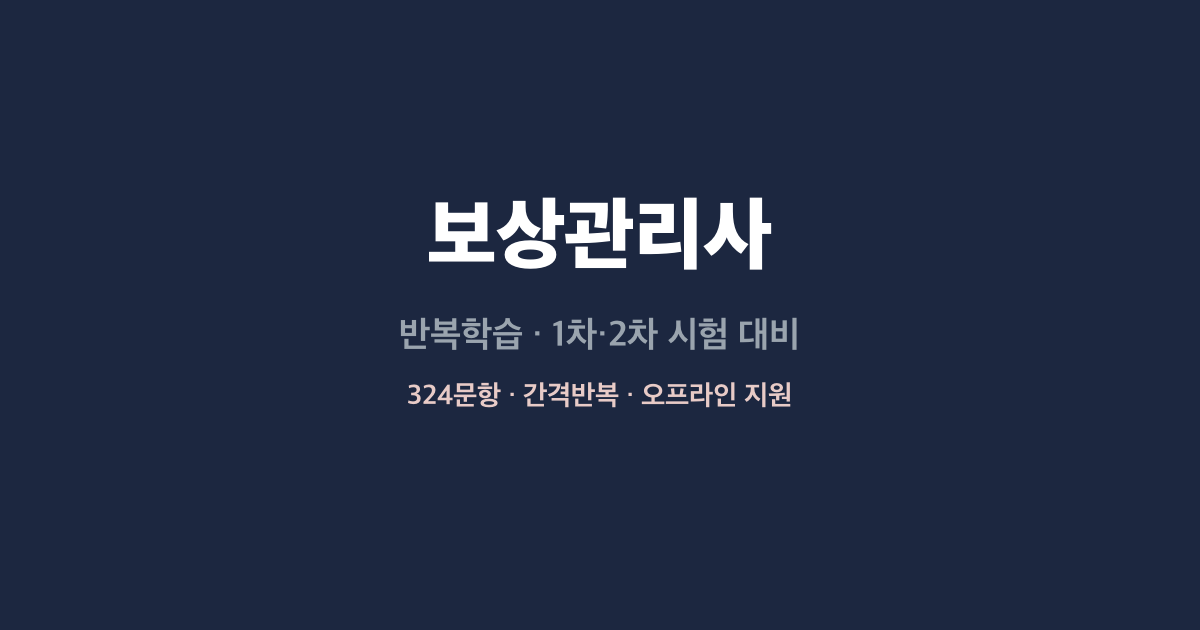
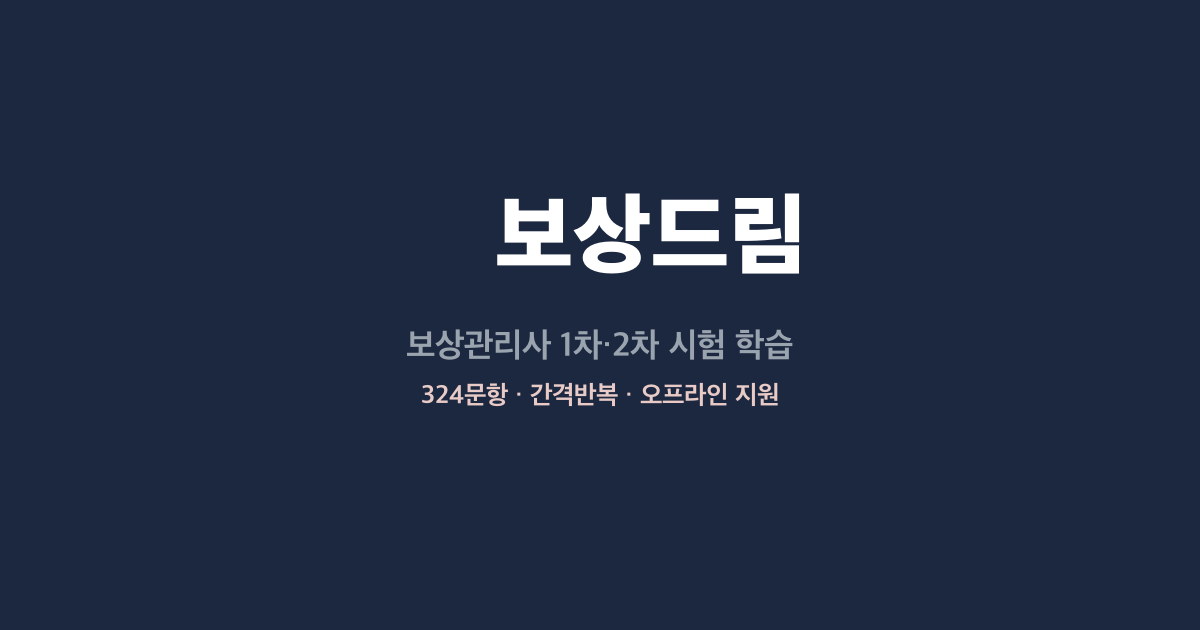
feat: 브랜드명 "보상드림"으로 전면 변경
- title, og:title, manifest, topbar, 피드백, 메뉴 버전 표시
- OG 이미지 새로 생성 (보상드림 텍스트)
- README, ARCHITECTURE 브랜드명 반영
- SW 캐시 v7→v8

Changed region(s): [[0.3392, 0.3016, 0.6783, 0.4524], [0.3083, 0.4825, 0.6783, 0.573], [0.3392, 0.6032, 0.6783, 0.6635]]

diff --git a/index.html b/index.html
@@ -7,10 +7,10 @@
 <meta name="apple-mobile-web-app-capable" content="yes">
 <meta name="mobile-web-app-capable" content="yes">
 <meta name="theme-color" content="#1C2740">
-<title>보상관리사 반복학습</title>
+<title>보상드림 — 보상관리사 학습</title>
 <!-- Open Graph (카카오톡 공유 미리보기) -->
-<meta property="og:title" content="보상관리사 반복학습">
-<meta property="og:description" content="1차·2차 시험 기출·예상문제 324문항 간격반복 학습">
+<meta property="og:title" content="보상드림 — 보상관리사 학습">
+<meta property="og:description" content="보상관리사 1차·2차 시험 324문항 간격반복 학습">
 <meta property="og:image" content="https://jagallang.github.io/bosang/icons/og-image.png">
 <meta property="og:url" content="https://jagallang.github.io/bosang/">
 <meta property="og:type" content="website">
@@ -436,8 +436,8 @@ function topbar(){
   const pct=masteryPct(), due=dfilter(dueCards()).length;
   return `<div class="topbar">
     <div class="logo">
-      <div style="flex:none;width:34px;height:34px;border:2px solid rgba(255,255,255,.4);border-radius:8px;display:grid;place-items:center;color:#fff;font-weight:800;font-size:15px;letter-spacing:-1px;transform:rotate(-3deg)">補</div>
-      <div><h1>보상관리사</h1><div style="font-size:11px;color:rgba(255,255,255,.5);margin-top:-2px">${STAGES[curStage].label}</div></div>
+      <div style="flex:none;font-size:20px">💎</div>
+      <div><h1>보상드림</h1><div style="font-size:11px;color:rgba(255,255,255,.5);margin-top:-2px">${STAGES[curStage].label}</div></div>
     </div>
     <div class="nav-tabs">
       <button class="nav-tab ${curPage==='home'?'on':''}" onclick="goPage('home')">학습</button>
@@ -460,7 +460,7 @@ function renderMenu(){
     <button class="menu-item" role="menuitem" onclick="toggleMenu();goPage('feedback')">💬 의견 보내기</button>
     <div class="menu-divider"></div>
     <button class="menu-item" role="menuitem" onclick="toggleMenu();confirmReset()" style="color:var(--seal)">🗑 진도 초기화</button>
-    <div style="margin-top:16px;font-size:10px;color:var(--faint);text-align:center">v6.2.0</div>
+    <div style="margin-top:16px;font-size:10px;color:var(--faint);text-align:center">보상드림 v7.0.0</div>
   </div>`;
 }
 
@@ -1031,8 +1031,8 @@ function sendFeedback(){
   const text=document.getElementById('fb-text').value;
   if(!text.trim()){alert('내용을 작성해주세요.');return;}
   const typeLabel={'bug':'버그/오류','wrong':'문제/정답 오류','idea':'기능 제안','etc':'기타'}[type];
-  const subject=encodeURIComponent('[보상관리사 앱] '+typeLabel);
-  const body=encodeURIComponent('유형: '+typeLabel+'\n단계: '+STAGES[curStage].label+'\n버전: v6.3.1\n\n'+text);
+  const subject=encodeURIComponent('[보상드림] '+typeLabel);
+  const body=encodeURIComponent('유형: '+typeLabel+'\n단계: '+STAGES[curStage].label+'\n버전: v7.0.0\n\n'+text);
   location.href='mailto:episode0611@gmail.com?subject='+subject+'&body='+body;
 }
 

diff --git a/service-worker.js b/service-worker.js
@@ -1,7 +1,7 @@
-/* 보상관리사 반복학습 - Stale-While-Revalidate 캐시.
+/* 보상드림 - Stale-While-Revalidate 캐시.
    캐시를 즉시 내주고 뒤에서 갱신 → 다음 실행 시 새 버전 반영.
    오프라인에서도 캐시된 버전으로 즉시 로딩. */
-const CACHE = 'bosang-v7';
+const CACHE = 'bosang-v8';
 const ASSETS = [
   './',
   './index.html',

diff --git a/README.md b/README.md
@@ -1,6 +1,6 @@
-# 보상관리사 반복학습 (설치형 웹앱 / PWA)
+# 보상드림 — 보상관리사 학습 (설치형 웹앱 / PWA)
 
-보상관리사 시험 1차·2차 기출·교재 문제은행을 간격 반복으로 학습하는 오프라인 지원 웹앱입니다.
+보상관리사 자격시험 1차·2차 기출·교재 문제은행을 간격 반복으로 학습하는 오프라인 지원 웹앱입니다.
 휴대폰 홈 화면에 설치해 앱처럼 쓸 수 있습니다.
 
 ## 시험 구조
@@ -87,7 +87,7 @@ scripts/                   변환·분석 스크립트 (개발용)
 ```bash
 git init
 git add .
-git commit -m "보상관리사 학습 PWA"
+git commit -m "보상드림 PWA"
 git branch -M main
 git remote add origin https://github.com/<사용자명>/<저장소명>.git
 git push -u origin main

diff --git a/ARCHITECTURE.md b/ARCHITECTURE.md
@@ -1,6 +1,6 @@
 # 아키텍처
 
-보상관리사 반복학습 PWA의 기술 구조 문서. v6.3.2 기준.
+보상드림(보상관리사 학습) PWA의 기술 구조 문서. v7.0.0 기준.
 
 ## 파일 구조
 
